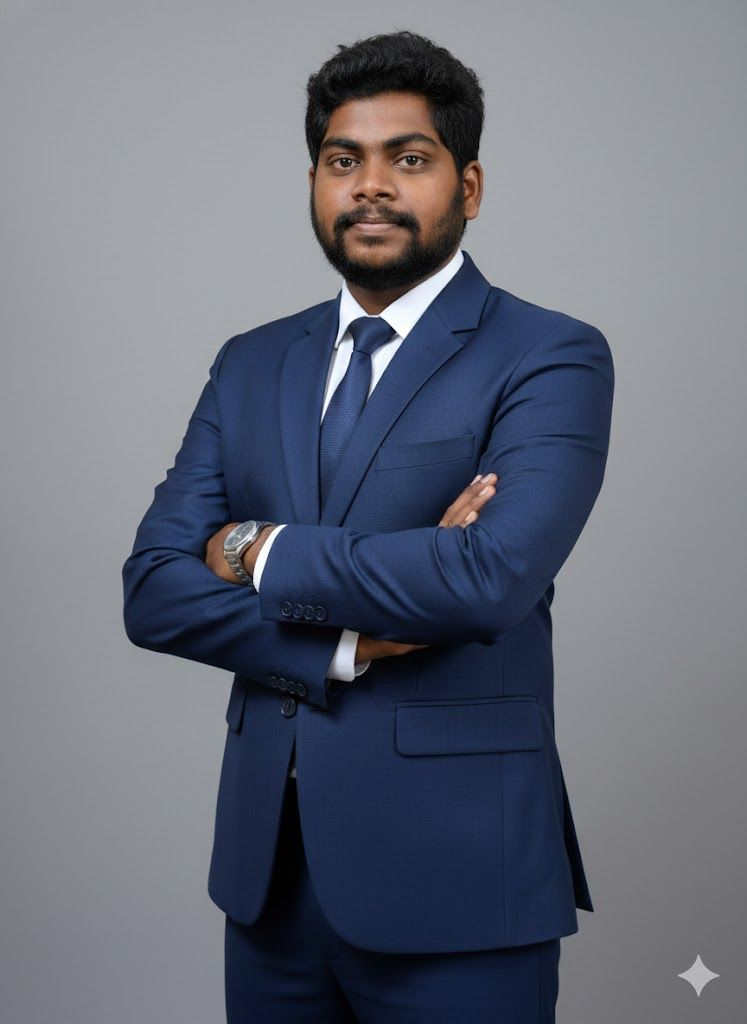
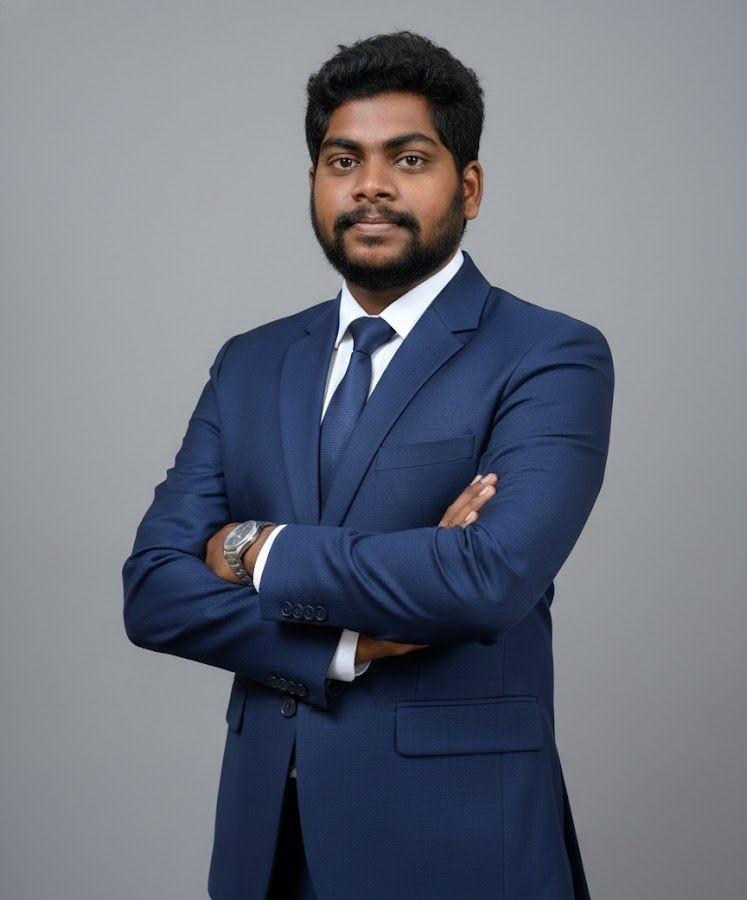
feat: Implement Founders Note and Team sections with carousel components and associated member images.

Changed region(s): [[0.1539, 0.0311, 0.8313, 1.0], [0.8929, 0.9333, 0.9545, 0.9644], [0.7082, 0.6533, 0.739, 0.6844]]

diff --git a/src/components/sections/TeamSection.tsx b/src/components/sections/TeamSection.tsx
@@ -23,21 +23,24 @@ const teamMembers: Array<{
         {
             name: "Anjali Patel",
             role: "HRM",
-            image: "/placeholder.svg",
+            image: "/Anjali_M.JPG.jpeg",
+            imageClass: "object-cover object-top scale-[1.06] group-hover:scale-[1.15]",
             shortNote: "Strategic human resource leader dedicated to building high-performing teams and fostering a culture of innovation and inclusivity.",
             bio: "Anjali brings over a decade of experience in talent acquisition and organizational development. She is passionate about creating environments where engineers and visionaries can thrive together to build the next generation of technology."
         },
         {
             name: "Madhan Kumar",
             role: "Senior Full stack Developer",
-            image: "/placeholder.svg",
+            image: "/Madhan_Kumar_P.JPG.jpeg",
+            imageClass: "object-cover object-top scale-[1.06] group-hover:scale-[1.15]",
             shortNote: "Expert in building scalable, intelligence-first applications with a focus on seamless user experiences and robust backend architecture.",
             bio: "With a background in high-performance computing, Madhan leads our full-stack engineering efforts. He ensures that our sophisticated AI capabilities are delivered through intuitive and lightning-fast interfaces."
         },
         {
             name: "Kamalesh",
             role: "AI Engineer",
-            image: "/placeholder.svg",
+            image: "/Kamalesh_S.JPG.jpeg",
+            imageClass: "object-cover object-top scale-[1.06] group-hover:scale-[1.15]",
             shortNote: "Specializing in frontier AI research and implementing sophisticated neural architectures that drive the core intelligence of our systems.",
             bio: "Kamalesh is at the forefront of our AI research. He translates complex mathematical models into production-ready intelligence, ensuring UNAI TECH remains at the cutting edge of what's possible."
         },
@@ -45,7 +48,7 @@ const teamMembers: Array<{
             name: "Muthasir",
             role: "Marketing Head",
             image: "/WhatsApp Image 2026-03-03 at 2.13.21 PM.jpeg",
-            imageClass: "object-[80%_10%] scale-[1.03] group-hover:scale-[1.0]",
+            imageClass: "object-cover object-top scale-[1.06] group-hover:scale-[1.5]",
             shortNote: "Visionary marketing strategist focused on communicating the transformative power of AI and building strong global brand presence.",
             bio: "Muthasir combines data-driven insights with creative storytelling to bridge the gap between complex engineering and market needs. He drives our global growth and brand recognition."
         },
@@ -53,7 +56,7 @@ const teamMembers: Array<{
             name: "Iniyan",
             role: "Marketing Head",
             image: "/IMG_20260214_133258.jpg.jpeg",
-            imageClass: "object-[50%_20%] scale-[1.20] group-hover:scale-[1.1]",
+            imageClass: "object-cover object-top scale-[1.06] group-hover:scale-[1.15]",
             shortNote: "Dynamic marketing lead expertise in digital growth, community engagement, and strategic positioning of AI-native solutions.",
             bio: "Iniyan focuses on the intersection of community and technology. He ensures that our AI solutions resonate with users and build lasting value through strategic digital positioning."
         }

diff --git a/src/components/sections/FoundersNote.tsx b/src/components/sections/FoundersNote.tsx
@@ -19,7 +19,7 @@ const founders = [
     {
         name: "Vetha Gokul",
         role: "MANAGING DIRECTOR",
-        image: "/placeholder.svg", // Using placeholder for now as requested
+        image: "/Vetha_Gokul_SR.jpg.jpeg",
         title: "Leading with <span class='text-blue-600'>Vision</span> and Purpose.",
         content: [
             "At UNAI TECH, our mission is to empower teams with tools that don't just process data, but provide meaningful insights. We are committed to excellence in every line of code and every strategic decision.",
